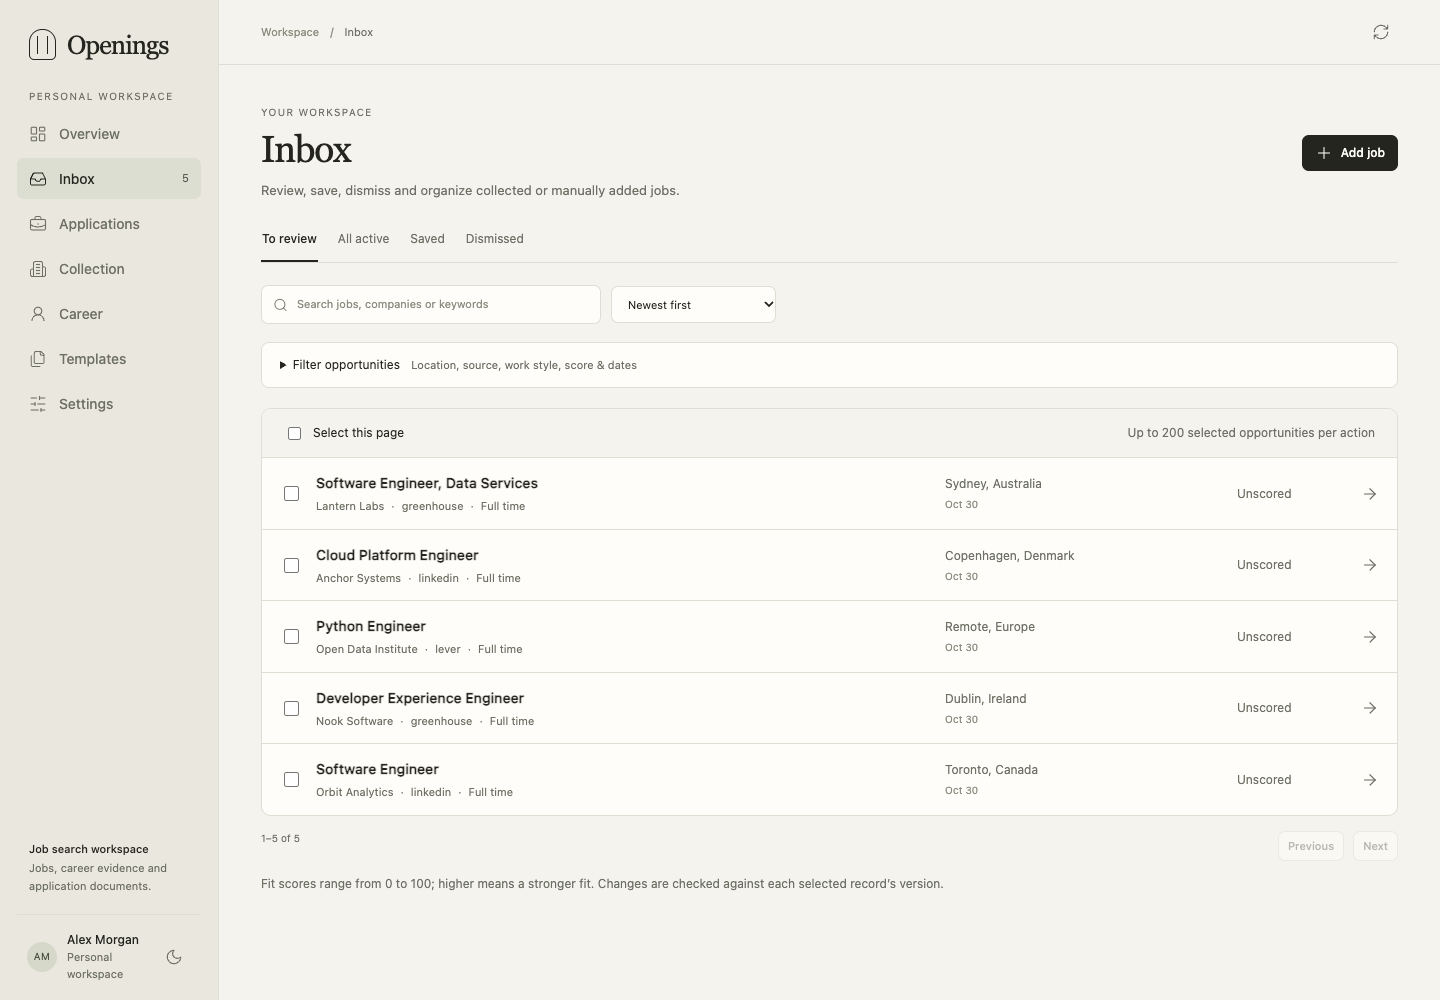
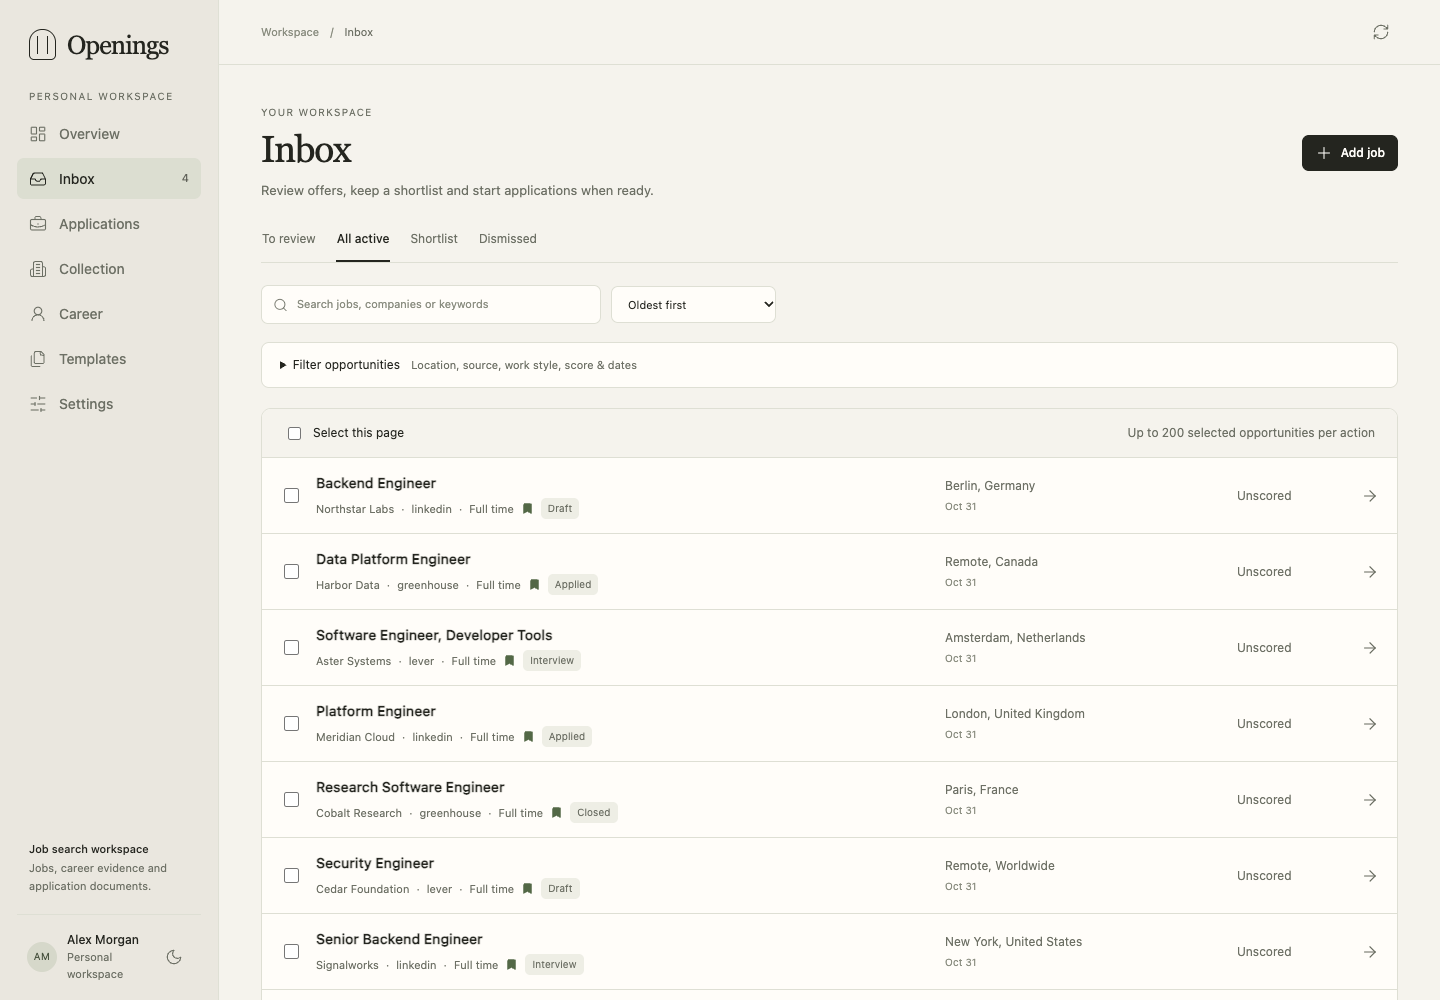
Finalize runtime cleanup and refreshed product screenshots

diff --git a/backend/openings/collectors/policy.py b/backend/openings/collectors/policy.py
@@ -44,11 +44,6 @@ PROVIDERS = {
         "manual",
         "Public URL import and explicit ATS board detection.",
     ),
-    "google": (
-        "Google Jobs",
-        "unsupported",
-        "Unsupported: usable job data was unavailable in the verified JobSpy provider.",
-    ),
 }
 
 
@@ -139,7 +134,7 @@ class ProviderStore:
         self.db = db
         with db.transaction() as connection:
             for provider in PROVIDERS:
-                policy = ProviderPolicy(enabled=provider != "google").model_dump()
+                policy = ProviderPolicy().model_dump()
                 connection.execute(
                     "INSERT OR IGNORE INTO providers(id,policy,runtime,updated_at) VALUES(?,?,?,?)",
                     (provider, encode(policy), "{}", now()),
@@ -180,7 +175,7 @@ class ProviderStore:
             "id": provider,
             "name": name,
             "capability": {
-                "supported": provider != "google",
+                "supported": True,
                 "kind": kind,
                 "description": description,
                 "transport_version": "jobspy1.4.1-openings1"
@@ -202,8 +197,6 @@ class ProviderStore:
         updates = value.model_dump(exclude_unset=True, exclude={"expected_version"})
         if any(value is None for value in updates.values()):
             raise DomainError(422, "provider_policy", "Provider policy values cannot be null.")
-        if provider == "google" and updates.get("enabled"):
-            raise DomainError(422, "unsupported_provider", PROVIDERS[provider][2])
         with self.db.transaction() as connection:
             row = connection.execute("SELECT * FROM providers WHERE id=?", (provider,)).fetchone()
             check_version(row, value.expected_version)
@@ -264,8 +257,6 @@ class ProviderBudget:
                     "SELECT * FROM providers WHERE id=?", (self.provider,)
                 ).fetchone()
                 policy, runtime = json.loads(row["policy"]), json.loads(row["runtime"])
-                if self.provider == "google":
-                    raise DomainError(422, "unsupported_provider", PROVIDERS[self.provider][2])
                 if not policy["enabled"]:
                     self.blocked = ProviderDeferred(self.provider, "provider_paused")
                     raise self.blocked

diff --git a/backend/openings/discovery.py b/backend/openings/discovery.py
@@ -633,7 +633,7 @@ def fetch_postings(source: dict) -> list[dict]:
         budget = HTTP_BUDGET.get()
         if budget is None:
             raise DomainError(
-                500, "provider_gate", "A provider HTTP budget is required for portal collection."
+                500, "provider_gate", "The shared HTTP gate is required for portal collection."
             )
         items, diagnostic = jobspy_collector.collect(
             {key: val for key, val in config.items() if key not in ("url", "filters")},
@@ -2660,7 +2660,7 @@ def register_mcp(mcp, service: DiscoveryService):
         annotations=ToolAnnotations(readOnlyHint=True, destructiveHint=False, openWorldHint=True)
     )
     async def sources_preview(value: SourcePreview) -> dict:
-        """Preview a saved-search/company/feed configuration without saving jobs; shared HTTP budgets apply."""
+        """Preview a saved-search/company/feed configuration without saving jobs; shared request spacing and cooldowns apply."""
         return await asyncio.to_thread(service.preview_source, value)
 
     @mcp.tool(
@@ -2688,7 +2688,7 @@ def register_mcp(mcp, service: DiscoveryService):
         annotations=ToolAnnotations(readOnlyHint=False, destructiveHint=False, openWorldHint=True)
     )
     def sources_run(source_id: str, value: SourceRun) -> dict:
-        """Run a versioned source with frozen optional overrides; shared portal budgets always apply."""
+        """Run a versioned source with frozen optional overrides; shared request spacing and cooldowns apply."""
         return service.queue_collection(
             source_id, expected_version=value.expected_version, overrides=value.overrides
         )

diff --git a/backend/openings/operations.py b/backend/openings/operations.py
@@ -12,8 +12,8 @@ from .errors import DomainError
 from .db import SCHEMA_VERSION
 
 
-def preserve_request_windows(restored, current):
-    """Restoring an older archive cannot undo HTTP requests already sent by this installation."""
+def preserve_provider_runtime(restored, current):
+    """Keep recent request counts and active provider cooldowns across a restore."""
     result = {**restored, **current}
     result["events"] = sorted(
         {
@@ -23,11 +23,6 @@ def preserve_request_windows(restored, current):
             if value > time.time() - 86400
         }
     )
-    runs = dict(restored.get("runs", {}))
-    for key, value in current.get("runs", {}).items():
-        if key not in runs or value.get("count", 0) >= runs[key].get("count", 0):
-            runs[key] = value
-    result["runs"] = dict(sorted(runs.items(), key=lambda pair: pair[1].get("at", 0))[-200:])
     for key in ("next_allowed_at", "cooldown_until", "last_request_at"):
         result[key] = max(restored.get(key) or "", current.get(key) or "") or None
     for key in ("total_requests", "throttle_count"):
@@ -105,7 +100,7 @@ def restore_database(workspace, source_path):
                                 "SELECT runtime FROM providers WHERE id=?", (provider["id"],)
                             ).fetchone()
                             if restored:
-                                runtime = preserve_request_windows(
+                                runtime = preserve_provider_runtime(
                                     json.loads(restored[0]), json.loads(provider["runtime"])
                                 )
                                 target.execute(

diff --git a/backend/openings/_vendor/jobspy/model.py b/backend/openings/_vendor/jobspy/model.py
@@ -14,7 +14,6 @@ from pydantic import (
     FilePath,
     field_validator,
     model_serializer,
-    model_validator,
 )
 
 
@@ -250,8 +249,6 @@ class ScraperInput(BaseModel):
     easy_apply: bool | None = None
     offset: int = Field(0, ge=0)
     fetch_description: bool = False
-    linkedin_fetch_description: bool = False
-    """Deprecated since 1.2.0: use fetch_description; will be removed in 2.0."""
     linkedin_company_ids: list[int] | None = None
     description_format: DescriptionFormat = DescriptionFormat.MARKDOWN
 
@@ -267,12 +264,6 @@ class ScraperInput(BaseModel):
     @classmethod
     def _one_or_several(cls, value: object) -> object:
         return [value] if isinstance(value, (str, Enum)) else value
-
-    @model_validator(mode="after")
-    def _merge_linkedin_fetch_description(self) -> ScraperInput:
-        if self.linkedin_fetch_description:
-            self.fetch_description = True
-        return self
 
 
 class Scraper(ABC):

diff --git a/backend/tests/test_collectors.py b/backend/tests/test_collectors.py
@@ -369,13 +369,12 @@ def test_collection_lane_progresses_during_a_slow_inference_and_queues_successor
         worker.stop()
 
 
-def test_google_is_explicitly_unsupported_and_retry_after_is_not_guessed(collection):
+def test_provider_list_excludes_unsupported_services_and_retry_after_is_not_guessed(collection):
     _, service = collection
-    google = service.providers.get("google")
-    assert not google["capability"]["supported"] and not google["policy"]["enabled"]
+    assert "google" not in {row["id"] for row in service.providers.list()["items"]}
     with pytest.raises(DomainError) as caught:
         service.update_provider("google", ProviderPatch(expected_version=1, enabled=True))
-    assert caught.value.code == "unsupported_provider"
+    assert caught.value.code == "not_found"
     assert retry_after("not a date", 1) is None
     assert retry_after("3", 1) == 4
 

diff --git a/backend/openings/fetching.py b/backend/openings/fetching.py
@@ -179,7 +179,7 @@ async def read_posting(url, discovery):
         except DomainError as error:
             if error.code == "provider_redirect":
                 return {"metadata": {"extraction": "needs_text", "extraction_error": error.message}}
-            if error.status == 429 or "budget" in error.code or "cooldown" in error.code:
+            if error.status == 429:
                 return {"metadata": {"extraction": "deferred", "extraction_error": error.message}}
         except (ValueError, TypeError, AttributeError):
             continue

diff --git a/README.md b/README.md
@@ -56,7 +56,7 @@ The core Compose limit is **0.5 CPU / 512 MiB**. The optional local scorer adds
 
 [Collection and schedules](docs/user/sources.md) · [Career knowledge](docs/user/career.md) · [Application documents](docs/user/applications.md) · [Scoring](docs/user/scoring.md) · [REST API](docs/user/api.md) · [Operations](docs/user/operations.md)
 
-![Job inbox with compact roles, fit scores and application stages](docs/images/inbox.png)
+![Job inbox with compact roles, shortlists and application stages](docs/images/inbox.png)
 
 ![Application board with draft, submitted and interview stages](docs/images/applications.png)
 
